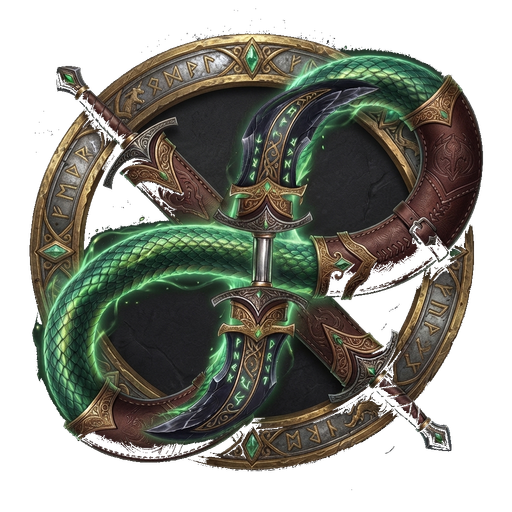
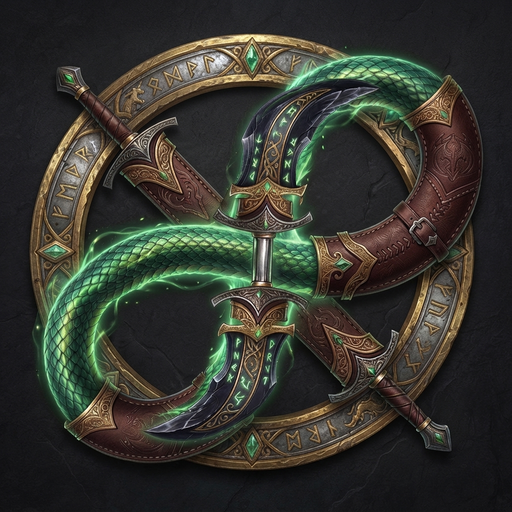
Revert seal to the complete unmodified source image, drop the glow
Background removal on the rune-ring artwork kept leaving it looking
incomplete/torn (dark shading in the art is close in color to the
backdrop, so the flood fill was catching real content). Per explicit
instruction, use the full image exactly as rendered instead -- nothing
missing, no processing risk. No throbbing glow. Sized at 150% (168px
-> 252px) in its place.

diff --git a/adventure-guide.html b/adventure-guide.html
@@ -86,27 +86,16 @@
   .hero-download-btn svg { width: 18px; height: 18px; flex: none; }
   @media (prefers-reduced-motion: reduce) { .hero-download-btn { transition: none; } }
 
-  /* Hero seal: the rune-ring emblem (icons/guide/adventure-seal.png) is
-     used as-is, background already made transparent -- no circular clip,
-     no card/ring frame, no border-radius. Kept plain deliberately after
-     an ornate stone/scale-ring CSS frame was tried and rejected as
-     cluttered -- don't re-add a decorative frame here without checking
-     first. */
-  .hero-seal-frame { width: 168px; margin: 0 auto 26px; }
-  /* Throbbing glow, same pattern as .wf-hero-logo in hero-embed.html --
-     a pulsing drop-shadow (hugs the emblem's own transparent silhouette,
-     not a fixed box) rather than a background glow behind a square/circle,
-     since there's no frame here to glow "behind." Green to match the
-     serpent's own energy color already rendered into the artwork, instead
-     of that page's orange. */
-  .hero-seal { width: 100%; height: auto; display: block; animation: heroSealGlow 2.4s ease-in-out infinite alternate; }
-  @keyframes heroSealGlow {
-    from { filter: drop-shadow(0 0 10px rgba(110, 254, 154, 0.35)); }
-    to   { filter: drop-shadow(0 0 28px rgba(110, 254, 154, 0.75)); }
-  }
-  @media (prefers-reduced-motion: reduce) {
-    .hero-seal { animation: none; filter: drop-shadow(0 0 18px rgba(110, 254, 154, 0.55)); }
-  }
+  /* Hero seal: icons/guide/adventure-seal.png is the COMPLETE, unmodified
+     source render (E:\Icons\Adventure Icon\screen.png) -- no background
+     removal, no glow, no clip. Background removal on this art kept
+     leaving ragged/incomplete-looking edges (dark shading close in color
+     to the backdrop got caught by the flood fill), so per explicit
+     instruction: show the whole image as-is rather than risk cutting
+     into it. Sized at 150% of the original 168px placement (was 96px
+     before that). */
+  .hero-seal-frame { width: 252px; margin: 0 auto 26px; }
+  .hero-seal { width: 100%; height: auto; display: block; }
 
   .manual { background: var(--card); border: 1px solid var(--hairline); border-radius: 14px; padding: 30px 32px; margin-bottom: 88px; box-shadow: 0 1px 0 var(--hairline) inset, 0 18px 40px -30px var(--shadow); }
   .manual h2 { font-family: 'Syne', sans-serif; font-size: 1.5rem; margin: 0 0 6px; font-weight: 700; }
